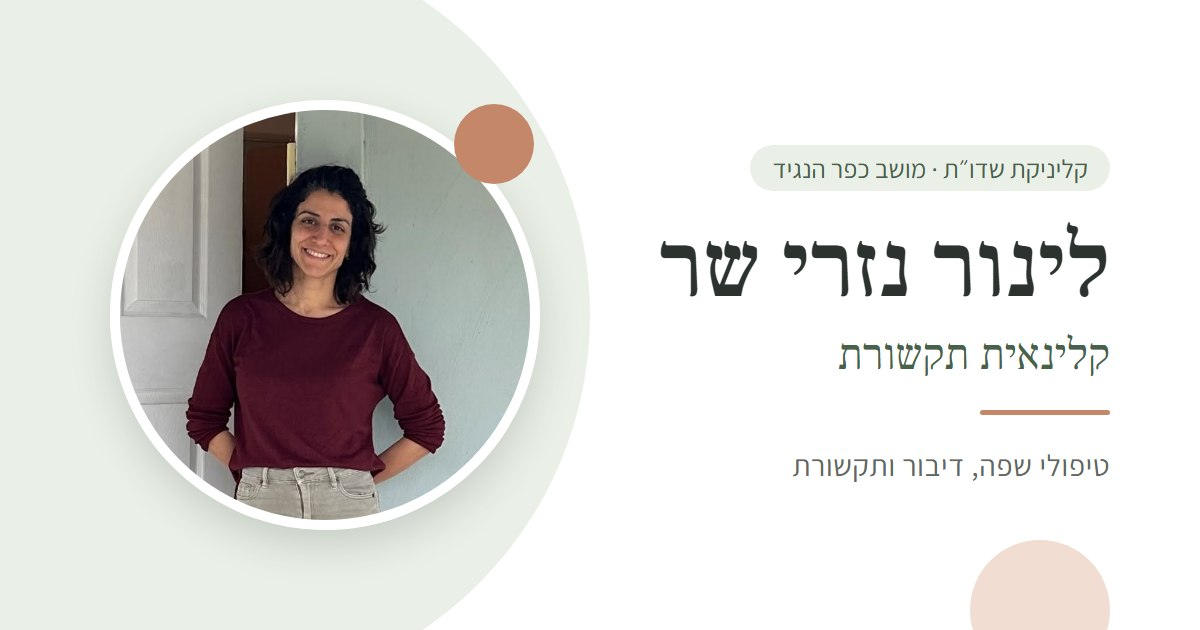
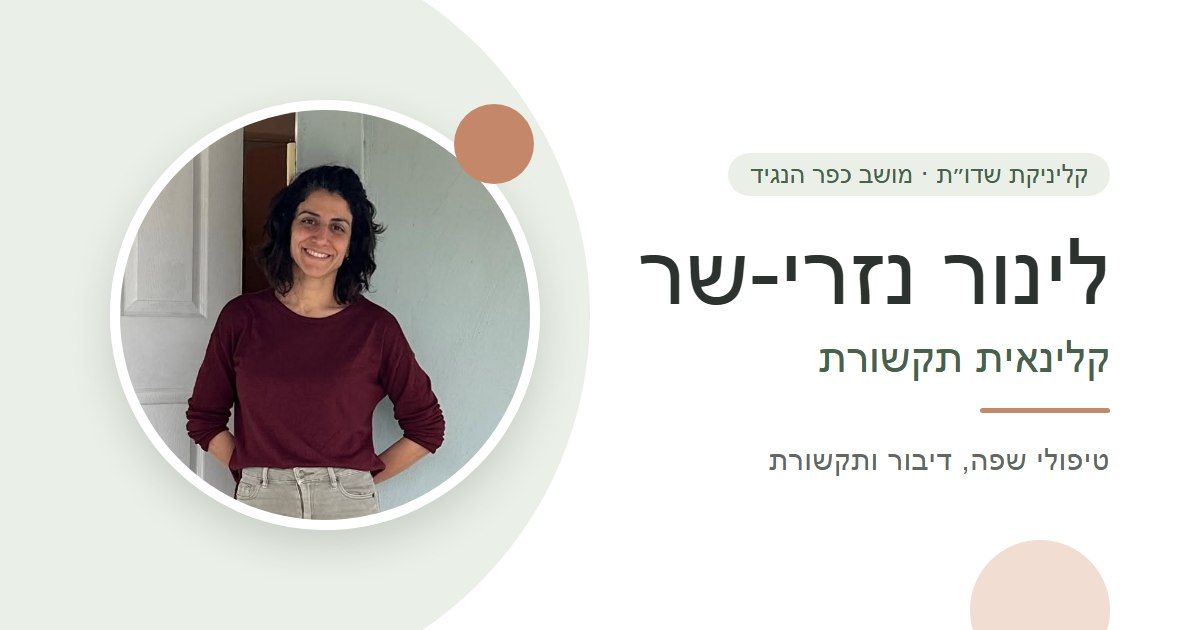
Use Arial throughout and hyphenate surname (נזרי-שר)
- drop Google Fonts; all text in Arial
- name updated in content, page descriptions and README
- regenerate WhatsApp/social share image with new name and font

diff --git a/assets/style.css b/assets/style.css
@@ -13,8 +13,8 @@
   --ink: #2C332E;          /* טקסט */
   --muted: #5F6862;        /* טקסט משני */
   --line: #DCE5D8;
-  --serif: "Frank Ruhl Libre", Georgia, serif;
-  --sans: "Assistant", "Segoe UI", Arial, sans-serif;
+  --serif: Arial, "Helvetica Neue", Helvetica, sans-serif;
+  --sans: Arial, "Helvetica Neue", Helvetica, sans-serif;
   --header-h: 76px;
   --shadow: 0 10px 30px rgba(44, 51, 46, .10);
 }

diff --git a/build.py b/build.py
@@ -368,9 +368,6 @@ def render(page, pages, c, photo_src):
   <link rel="icon" type="image/png" sizes="32x32" href="{favicon32}">
   <link rel="icon" type="image/png" sizes="96x96" href="{favicon96}">
   <link rel="apple-touch-icon" href="{touch_icon}">
-  <link rel="preconnect" href="https://fonts.googleapis.com">
-  <link rel="preconnect" href="https://fonts.gstatic.com" crossorigin>
-  <link href="https://fonts.googleapis.com/css2?family=Assistant:wght@400;600&family=Frank+Ruhl+Libre:wght@400;500&display=swap" rel="stylesheet">
   <link rel="stylesheet" href="{style_css}">{head_extra}
 </head>
 <body>

diff --git a/pages/about.md b/pages/about.md
@@ -2,13 +2,13 @@
 nav: אודות
 title: אודות
 order: 2
-description: לינור נזרי שר, קלינאית תקשורת – קליניקת שדו״ת במושב כפר הנגיד. טיפול אישי בשפה, דיבור ותקשורת והרצאות בתחומי הגיל הרך.
+description: לינור נזרי-שר, קלינאית תקשורת – קליניקת שדו״ת במושב כפר הנגיד. טיפול אישי בשפה, דיבור ותקשורת והרצאות בתחומי הגיל הרך.
 image: assets/clinic.webp
 image_alt: לינור בקליניקת שדו״ת
 certificates: true
 ---
 
-שמי לינור נזרי שר, ואני קלינאית תקשורת. בקליניקת **שדו״ת** – שפה, דיבור ותקשורת – במושב כפר הנגיד, אני מלווה ילדים ומשפחות.
+שמי לינור נזרי-שר, ואני קלינאית תקשורת. בקליניקת **שדו״ת** – שפה, דיבור ותקשורת – במושב כפר הנגיד, אני מלווה ילדים ומשפחות.
 
 בעבודתי אני רואה את הקשר בין שפה, רגש וחשיבה, ולכן כל טיפול נבנה באופן אישי.
 

diff --git a/pages/specialties.md b/pages/specialties.md
@@ -2,7 +2,7 @@
 nav: התמחויות
 title: התמחויות
 order: 3
-description: תחומי ההתמחות של לינור נזרי שר, קלינאית תקשורת: התפתחות שפה בגיל הרך, היגוי ודיבור, תקשורת ומשחק, הדרכת הורים וליווי צוותי חינוך.
+description: תחומי ההתמחות של לינור נזרי-שר, קלינאית תקשורת: התפתחות שפה בגיל הרך, היגוי ודיבור, תקשורת ומשחק, הדרכת הורים וליווי צוותי חינוך.
 ---
 
 - התפתחות שפה בגיל הרך

diff --git a/pages/language-assessment.md b/pages/language-assessment.md
@@ -2,7 +2,7 @@
 nav: אבחוני שפה
 title: אבחוני שפה
 order: 5
-description: אבחון שפה ודיבור לילדים אצל קלינאית התקשורת לינור נזרי שר: שיחה עם ההורים, הערכה במשחק ובכלים מותאמים לגיל, סיכום והמלצות.
+description: אבחון שפה ודיבור לילדים אצל קלינאית התקשורת לינור נזרי-שר: שיחה עם ההורים, הערכה במשחק ובכלים מותאמים לגיל, סיכום והמלצות.
 ---
 
 האבחון כולל:

diff --git a/pages/contact.md b/pages/contact.md
@@ -2,7 +2,7 @@
 nav: צור קשר
 title: צור קשר
 order: 7
-description: יצירת קשר עם לינור נזרי שר, קלינאית תקשורת: טלפון 052-897-4142, וואטסאפ, וכתובת הקליניקה – הארז 96, מושב כפר הנגיד.
+description: יצירת קשר עם לינור נזרי-שר, קלינאית תקשורת: טלפון 052-897-4142, וואטסאפ, וכתובת הקליניקה – הארז 96, מושב כפר הנגיד.
 layout: contact
 ---
 

diff --git a/README.md b/README.md
@@ -1,4 +1,4 @@
-# אתר – לינור נזרי שר, קלינאית תקשורת
+# אתר – לינור נזרי-שר, קלינאית תקשורת
 
 ## עריכת תוכן
 
